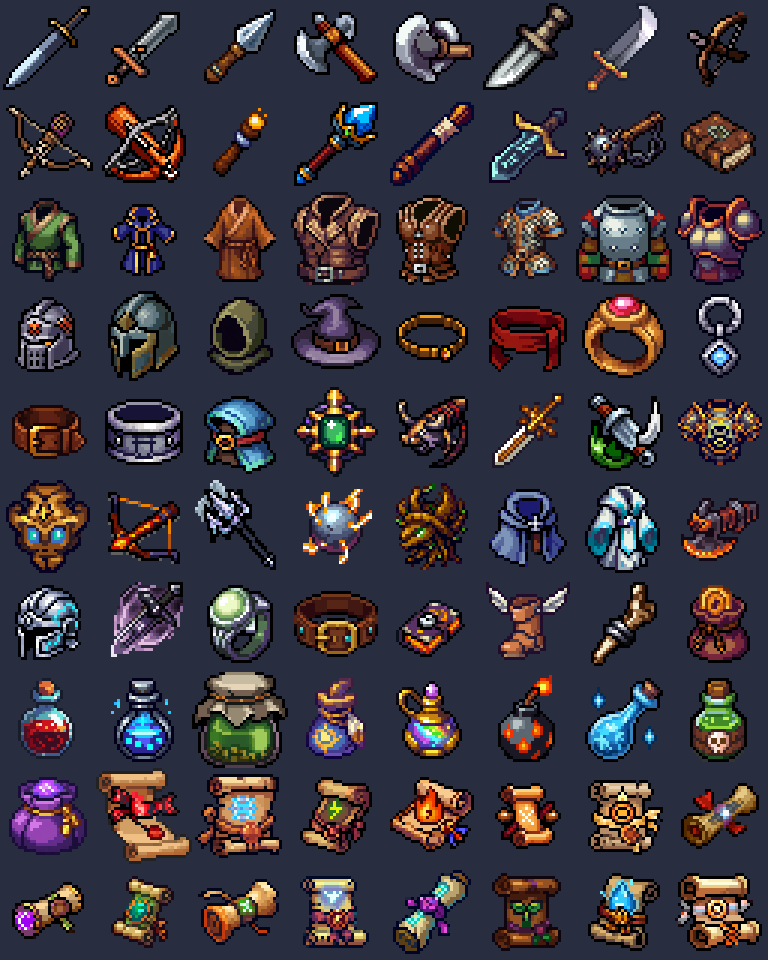
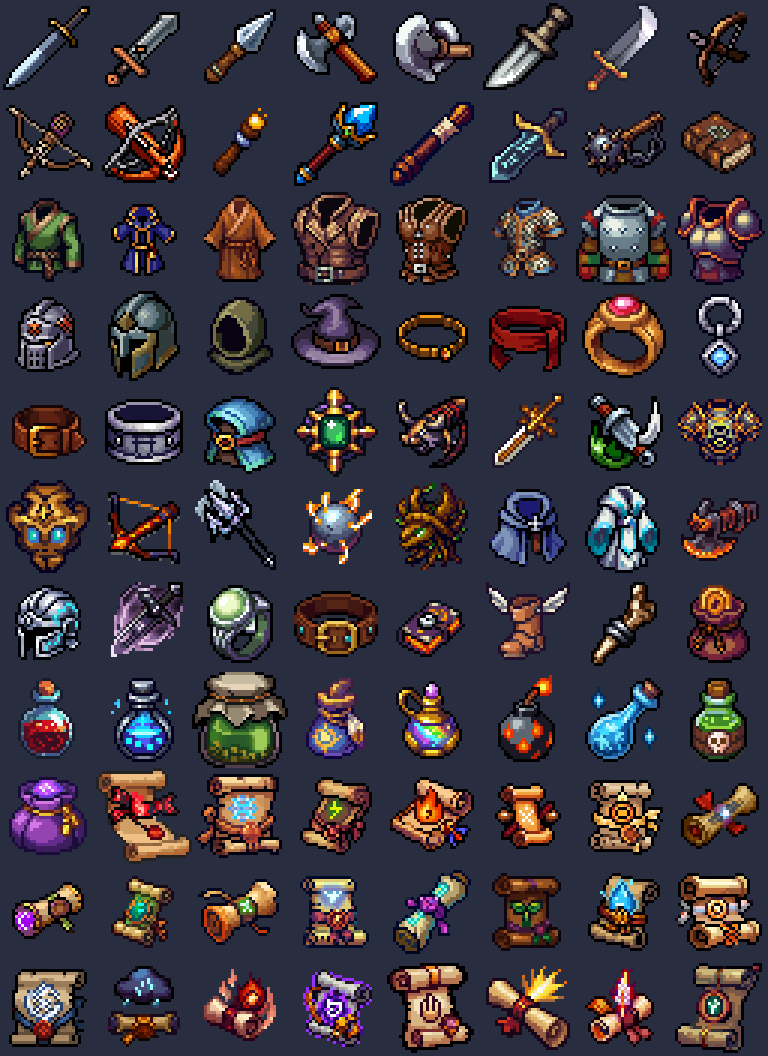
Seconda serie di abilità: 19 nuove abilità di scuola e 8 pergamene
- 46 abilità di classe: Colpo alle gambe, Baluardo, Squarcio, Freccia
  perforante, Freccia del silenzio, Trappola di rovi, Bufera, Temporale,
  Silenzio arcano, Meteora, Preghiera, Raggio sacro, Ritorno (rianima),
  Lama di fiamma, Lama tonante, Sigillo runico, Muro di scudi, Martello
  di luce, Voto; si imparano dagli oggetti generati
- 8 pergamene delle nuove magie con icone PixelLab (32 consumabili)
- esempio balance: TACTICA_MASTER per simulare le scuole padroneggiate
  e conteggio delle abilità usate; documentazione per scuola

diff --git a/core/src/ability.rs b/core/src/ability.rs
@@ -67,6 +67,26 @@ pub enum AbilityId {
     Purify,
     Rally,
     Chains,
+    // Seconda serie di abilità di scuola.
+    LegSweep,
+    Bulwark,
+    Cleave,
+    PiercingArrow,
+    HushArrow,
+    BrambleSnare,
+    Blizzard,
+    Thunderstorm,
+    ArcaneHush,
+    Meteor,
+    Prayer,
+    HolyRay,
+    Return,
+    FlameEdge,
+    StormEdge,
+    RuneSeal,
+    ShieldWall,
+    LightHammer,
+    Vow,
     // Effetti degli oggetti consumabili (non si imparano).
     Potion,
     Ether,
@@ -162,7 +182,7 @@ macro_rules! ab {
 use Element::*;
 
 /// Indicizzata per `AbilityId as usize`: l'ordine deve coincidere con l'enum.
-static TABLE: [Ability; 36] = [
+static TABLE: [Ability; 55] = [
     ab!(Strike, "strike", "Colpo", Physical, 100, 0, (1, 1)),
     ab!(
         HeavyBlow,
@@ -208,6 +228,47 @@ static TABLE: [Ability; 36] = [
         effect: fx(Status::Haste, 100, 3)),
     ab!(Chains, "chains", "Catene", Magic, 50, 8, (1, 3), vertical: 4, master_rp: 100,
         effect: fx(Status::Root, 75, 2)),
+    // Seconda serie: Avanguardia
+    ab!(LegSweep, "leg_sweep", "Colpo alle gambe", Physical, 90, 6, (1, 1), master_rp: 90,
+        effect: fx(Status::Root, 55, 2)),
+    ab!(Bulwark, "bulwark", "Baluardo", Support, 0, 8, (0, 0), aoe: 1, vertical: 4, master_rp: 110,
+        effect: fx(Status::Aegis, 100, 2)),
+    ab!(Cleave, "cleave", "Squarcio", Physical, 170, 9, (1, 1), master_rp: 140),
+    // Esploratore
+    ab!(PiercingArrow, "piercing_arrow", "Freccia perforante", Physical, 120, 5, (2, 7), vertical: 7,
+        ranged: true, master_rp: 100),
+    ab!(HushArrow, "hush_arrow", "Freccia del silenzio", Physical, 80, 8, (2, 5), vertical: 5,
+        ranged: true, master_rp: 100, effect: fx(Status::Silence, 55, 2)),
+    ab!(BrambleSnare, "bramble_snare", "Trappola di rovi", Support, 0, 8, (1, 4), aoe: 1, vertical: 4,
+        ranged: true, master_rp: 110, effect: fx(Status::Root, 70, 2)),
+    // Arcanista
+    ab!(Blizzard, "blizzard", "Bufera", Magic, 115, 20, (2, 5), aoe: 2, vertical: 5, element: Some(Ice),
+        master_rp: 150, effect: fx(Status::Slow, 35, 2)),
+    ab!(Thunderstorm, "thunderstorm", "Temporale", Magic, 120, 16, (1, 4), aoe: 1, vertical: 6,
+        element: Some(Thunder), master_rp: 130),
+    ab!(ArcaneHush, "arcane_hush", "Silenzio arcano", Support, 0, 10, (1, 4), aoe: 1, vertical: 4,
+        master_rp: 110, effect: fx(Status::Silence, 65, 2)),
+    ab!(Meteor, "meteor", "Meteora", Magic, 200, 28, (3, 5), aoe: 1, vertical: 6, element: Some(Fire),
+        master_rp: 180),
+    // Guaritore
+    ab!(Prayer, "prayer", "Preghiera", Heal, 75, 18, (0, 2), aoe: 2, vertical: 4, master_rp: 130),
+    ab!(HolyRay, "holy_ray", "Raggio sacro", Magic, 130, 12, (1, 4), vertical: 5, element: Some(Holy),
+        master_rp: 110),
+    ab!(Return, "return", "Ritorno", Heal, 25, 20, (1, 2), vertical: 4, revive: true, master_rp: 160),
+    // Spadaruna
+    ab!(FlameEdge, "flame_edge", "Lama di fiamma", Physical, 120, 6, (1, 1), element: Some(Fire),
+        master_rp: 90),
+    ab!(StormEdge, "storm_edge", "Lama tonante", Physical, 115, 8, (1, 1), element: Some(Thunder),
+        master_rp: 110, effect: fx(Status::Root, 30, 2)),
+    ab!(RuneSeal, "rune_seal", "Sigillo runico", Magic, 70, 10, (1, 3), vertical: 4, master_rp: 110,
+        effect: fx(Status::Silence, 60, 2)),
+    // Custode
+    ab!(ShieldWall, "shield_wall", "Muro di scudi", Support, 0, 14, (0, 0), aoe: 2, vertical: 4,
+        master_rp: 140, effect: fx(Status::Aegis, 100, 2)),
+    ab!(LightHammer, "light_hammer", "Martello di luce", Physical, 140, 10, (1, 1), element: Some(Holy),
+        master_rp: 110),
+    ab!(Vow, "vow", "Voto", Support, 0, 10, (0, 3), aoe: 1, vertical: 4, master_rp: 110,
+        effect: fx(Status::Regen, 100, 4)),
     // Consumabili: valori fissi, portata corta (le bombe si lanciano).
     ab!(Potion, "potion", "Pozione", Heal, 50, 0, (0, 1), vertical: 3, fixed: true),
     ab!(Ether, "ether", "Etere", Heal, 25, 0, (0, 1), vertical: 3, fixed: true, restore_mp: true),
@@ -225,10 +286,10 @@ static TABLE: [Ability; 36] = [
 ];
 
 impl AbilityId {
-    pub const ALL: [AbilityId; 36] = {
-        let mut out = [AbilityId::Strike; 36];
+    pub const ALL: [AbilityId; 55] = {
+        let mut out = [AbilityId::Strike; 55];
         let mut i = 0;
-        while i < 36 {
+        while i < 55 {
             out[i] = TABLE[i].id;
             i += 1;
         }

diff --git a/core/examples/balance.rs b/core/examples/balance.rs
@@ -16,6 +16,7 @@ fn main() {
     let mut turns = 0u64;
     let mut by_class: BTreeMap<&str, [i64; 4]> = BTreeMap::new(); // danni, cure, ko, sopravvissuti
     let mut by_biome: BTreeMap<&str, [u32; 3]> = BTreeMap::new();
+    let mut used: BTreeMap<&str, u64> = BTreeMap::new();
 
     for seed in 0..n {
         // Con TACTICA_STATUS=1 la squadra 0 usa l'equipaggiamento con gli status.
@@ -26,6 +27,14 @@ fn main() {
             presets::demo_party(0, 3, ["", "", "", ""])
         };
         units.extend(presets::demo_party(1, 3, ["", "", "", ""]));
+        // TACTICA_MASTER=1: la squadra 0 padroneggia tutte le abilità della
+        // propria scuola; =2: entrambe le squadre.
+        let master = std::env::var("TACTICA_MASTER").ok();
+        for u in &mut units {
+            if master.as_deref() == Some("2") || (master.as_deref() == Some("1") && u.team == 0) {
+                u.mastered = u.class.learnable().to_vec();
+            }
+        }
         let (mut b, _) = Battle::new(&BattleSetup {
             seed,
             map: None,
@@ -34,7 +43,12 @@ fn main() {
             objective: Default::default(),
             loot: Default::default(),
         });
-        ai::autoplay(&mut b, 20_000);
+        let (_, events) = ai::autoplay(&mut b, 20_000);
+        for e in &events {
+            if let tactica_core::Event::AbilityUsed { ability, .. } = e {
+                *used.entry(ability.def().name).or_default() += 1;
+            }
+        }
         let w = match b.winner() {
             Some(Some(t)) => t as usize,
             _ => 2,
@@ -74,4 +88,21 @@ fn main() {
     for (b, v) in &by_biome {
         println!("{b:<10} {:>6} {:>6} {:>6}", v[0], v[1], v[2]);
     }
+
+    if std::env::var("TACTICA_MASTER").is_ok() {
+        let mut v: Vec<_> = used.into_iter().collect();
+        v.sort_by_key(|(_, n)| std::cmp::Reverse(*n));
+        println!("\nAbilità usate (per battaglia):");
+        for (name, n) in v {
+            println!("  {name:<24} {:.2}", n as f64 / n_f(n_battles(&wins)));
+        }
+    }
+}
+
+fn n_battles(w: &[u32; 3]) -> u32 {
+    w.iter().sum()
+}
+
+fn n_f(n: u32) -> f64 {
+    n.max(1) as f64
 }

diff --git a/core/src/consumable.rs b/core/src/consumable.rs
@@ -36,7 +36,7 @@ macro_rules! cons {
     };
 }
 
-pub static CONSUMABLES: [ConsumableDef; 24] = [
+pub static CONSUMABLES: [ConsumableDef; 32] = [
     // Pozioni e preparati
     cons!(
         "pozione",
@@ -247,6 +247,70 @@ pub static CONSUMABLES: [ConsumableDef; 24] = [
         140,
         ""
     ),
+    cons!(
+        "p_bufera",
+        "Pergamena della Bufera",
+        Blizzard,
+        true,
+        Epic,
+        280,
+        ""
+    ),
+    cons!(
+        "p_temporale",
+        "Pergamena del Temporale",
+        Thunderstorm,
+        true,
+        Rare,
+        200,
+        ""
+    ),
+    cons!(
+        "p_meteora",
+        "Pergamena della Meteora",
+        Meteor,
+        true,
+        Epic,
+        320,
+        ""
+    ),
+    cons!(
+        "p_silenzio",
+        "Pergamena del Silenzio arcano",
+        ArcaneHush,
+        true,
+        Rare,
+        150,
+        ""
+    ),
+    cons!(
+        "p_preghiera",
+        "Pergamena della Preghiera",
+        Prayer,
+        true,
+        Rare,
+        190,
+        ""
+    ),
+    cons!(
+        "p_raggio",
+        "Pergamena del Raggio sacro",
+        HolyRay,
+        true,
+        Uncommon,
+        110,
+        ""
+    ),
+    cons!(
+        "p_ritorno",
+        "Pergamena del Ritorno",
+        Return,
+        true,
+        Epic,
+        300,
+        ""
+    ),
+    cons!("p_voto", "Pergamena del Voto", Vow, true, Uncommon, 100, ""),
 ];
 
 const ROMAN: [&str; TIERS] = ["I", "II", "III", "IV", "V", "VI"];

diff --git a/tools/pixelart/pixellab_icons.py b/tools/pixelart/pixellab_icons.py
@@ -116,6 +116,14 @@ ICONS: dict[str, str] = {
     "use_p_germoglio": "a rolled parchment scroll tied with a ribbon and wax seal, with a glowing green sprout leaf rune symbol",
     "use_p_purif": "a rolled parchment scroll tied with a ribbon and wax seal, with a glowing clear water drop rune symbol",
     "use_p_slancio": "a rolled parchment scroll tied with a ribbon and wax seal, with a glowing orange wind swirl rune symbol",
+    "use_p_bufera": "a rolled parchment scroll tied with a ribbon and wax seal, with a glowing white snowstorm swirl rune symbol",
+    "use_p_temporale": "a rolled parchment scroll tied with a ribbon and wax seal, with a glowing dark storm cloud with lightning rune symbol",
+    "use_p_meteora": "a rolled parchment scroll tied with a ribbon and wax seal, with a glowing falling flaming meteor rune symbol",
+    "use_p_silenzio": "a rolled parchment scroll tied with a ribbon and wax seal, with a glowing purple closed mouth rune symbol",
+    "use_p_preghiera": "a rolled parchment scroll tied with a ribbon and wax seal, with a glowing golden praying hands rune symbol",
+    "use_p_raggio": "a rolled parchment scroll tied with a ribbon and wax seal, with a glowing bright golden ray beam rune symbol",
+    "use_p_ritorno": "a rolled parchment scroll tied with a ribbon and wax seal, with a glowing glowing phoenix feather rune symbol",
+    "use_p_voto": "a rolled parchment scroll tied with a ribbon and wax seal, with a glowing green heart leaf rune symbol",
 }
 
 

diff --git a/core/src/class.rs b/core/src/class.rs
@@ -122,12 +122,30 @@ impl Class {
     pub fn learnable(self) -> &'static [AbilityId] {
         use AbilityId::*;
         match self {
-            Class::Vanguard => &[Sweep, Charge, Rally],
-            Class::Scout => &[AimedShot, Volley, VenomDart],
-            Class::Arcanist => &[Frost, Bolt, Inferno, Torpor],
-            Class::Mender => &[Radiance, GreatMend, Aegis, Sprout, Purify],
-            Class::Runeblade => &[DrainBlade, FrostEdge],
-            Class::Warden => &[Sanctuary, Judgment, Chains],
+            Class::Vanguard => &[Sweep, Charge, Rally, LegSweep, Bulwark, Cleave],
+            Class::Scout => &[
+                AimedShot,
+                Volley,
+                VenomDart,
+                PiercingArrow,
+                HushArrow,
+                BrambleSnare,
+            ],
+            Class::Arcanist => &[
+                Frost,
+                Bolt,
+                Inferno,
+                Torpor,
+                Blizzard,
+                Thunderstorm,
+                ArcaneHush,
+                Meteor,
+            ],
+            Class::Mender => &[
+                Radiance, GreatMend, Aegis, Sprout, Purify, Prayer, HolyRay, Return,
+            ],
+            Class::Runeblade => &[DrainBlade, FrostEdge, FlameEdge, StormEdge, RuneSeal],
+            Class::Warden => &[Sanctuary, Judgment, Chains, ShieldWall, LightHammer, Vow],
         }
     }
 

diff --git a/core/src/item.rs b/core/src/item.rs
@@ -569,9 +569,12 @@ mod tests {
         }
         for c in Class::ALL {
             assert!(validate_loadout(c, &starter_kit(c).map(ItemRef::from)).is_ok());
-            // Ogni abilità imparabile ha almeno un oggetto che la insegna.
+            // Ogni abilità imparabile si può trovare su un oggetto: o del
+            // catalogo classico, o generato con una base adatta alla classe.
             for a in c.learnable() {
-                assert!(TABLE.iter().any(|i| i.teaches == Some(*a)), "{a:?}");
+                let fixed = TABLE.iter().any(|i| i.teaches == Some(*a));
+                let generated = crate::gear::BASES.iter().any(|b| b.usable_by(c));
+                assert!(fixed || generated, "{a:?}");
             }
         }
     }

diff --git a/README.md b/README.md
@@ -47,8 +47,8 @@ Tutto è originale: regole, storia, nomi, grafica, musica ed effetti sonori. Ter
 ### Progressione
 
 - **6 classi:** Avanguardia, Esploratore, Arcanista e Guaritore di base; Spadaruna e Custode da sbloccare.
-- **27 abilità.** Un oggetto insegna un'abilità finché è equipaggiato; con i **punti risonanza** guadagnati in battaglia l'abilità diventa permanente.
-- **Consumabili in battaglia:** ogni unità porta una borsa con 2 consumabili scelti fra 24 tipi in sei qualità: pozioni, eteri, rimedi, essenze vitali che rianimano, elisir, bombe e fiale da lancio. In più 15 pergamene che permettono a qualsiasi classe di lanciare un incantesimo una volta.
+- **46 abilità di classe** (attacchi, magie elementali ad area, cure, rianimazione, status, protezioni). Un oggetto insegna un'abilità finché è equipaggiato; con i **punti risonanza** guadagnati in battaglia l'abilità diventa permanente.
+- **Consumabili in battaglia:** ogni unità porta una borsa con 2 consumabili scelti fra 24 tipi in sei qualità: pozioni, eteri, rimedi, essenze vitali che rianimano, elisir, bombe e fiale da lancio. In più 23 pergamene che permettono a qualsiasi classe di lanciare un incantesimo una volta.
 - **Bottino da conquistare sul campo:** le unità sconfitte possono lasciare un oggetto, e per prenderlo bisogna raggiungere la loro casella.
 - **Oggetti generati:** più di 200.000 combinazioni con 5 rarità, 37 basi, 6 materiali e 39 affissi (veleno o gelo al colpo, armi elementali, vampirismo, resistenze, immunità, rigenerazione, +1 movimento...). In più 16 leggendari unici con nome e storia. Quattro slot di equipaggiamento: arma, armatura, copricapo, accessorio.
 - **Esperienza e livelli,** roster fino a 8 unità, negozio, bottino ed economia.
@@ -104,7 +104,7 @@ I personaggi delle sei classi, fatti con PixelLab, con i colori delle due squadr
 
 ![Personaggi](docs/img/sprite_sheet.png)
 
-Le icone degli oggetti: 37 basi, 16 leggendari, 24 consumabili (pozioni, bombe, pergamene), gli oggetti classici e il sacchetto del bottino:
+Le icone degli oggetti: 37 basi, 16 leggendari, 32 consumabili (pozioni, bombe, pergamene), gli oggetti classici e il sacchetto del bottino:
 
 ![Icone degli oggetti](docs/img/icone.png)
 
@@ -243,7 +243,7 @@ I pacchetti per i giocatori includono il motore [Godot Engine](https://godotengi
 
 - **Isometric battles** on seeded procedural maps with height, fully rotatable in 3D. Rendering is styled after the VGA and SVGA era (with Bayer dithering).
 - **Statutes:** random battle rules; breaking one gets a unit suspended, then expelled.
-- **Progression:** 6 classes, 27 abilities and 29 items. Abilities are learned from equipment and mastered with resonance points.
+- **Progression:** 6 classes, 46 class abilities, 32 consumables (potions, bombs, spell scrolls) and procedurally generated gear. Abilities are learned from equipment and mastered with resonance points.
 - **Modes:** single-player campaign with tutorial, PvE, offline skirmish, ELO-matched PvP, 2-6 player co-op clan missions, clan wars (up to 6v6), clan tournaments, ranked seasons.
 - **Tech:**
   - deterministic rules engine in Rust (`core/`), shared by the authoritative server (axum, WebSocket, SQLite) and the Godot 4.7 client (GDExtension);

diff --git a/docs/SERVER.md b/docs/SERVER.md
@@ -166,13 +166,28 @@ Ogni unità porta in battaglia una **borsa** con al massimo 2 consumabili, prepa
 |---|---|---|
 | Pozioni e preparati | Pozione, Etere, Rimedio, Essenza vitale, Elisir | HP, MP, rimozione degli status negativi, rianimazione di un alleato sconfitto accanto (se la sua casella è libera), HP al massimo |
 | Da lancio | Bomba di brace, Fiala di gelo, Fiala tossica, Polvere del sonno | danni di fuoco ad area, ghiaccio e Lentezza, Veleno ad area, Sonno ad area (portata fino a 4) |
-| Pergamene (15) | Fiamma, Gelo, Folgore, Vampa, Luce, Giudizio, Catene, Torpore, Cura, Cura maggiore, Santuario, Egida, Germoglio, Purificazione, Slancio | lanciano l'incantesimo una volta, da qualsiasi classe, senza MP, con una MAG minima garantita dalla qualità |
+| Pergamene (23) | Fiamma, Gelo, Folgore, Vampa, Luce, Giudizio, Catene, Torpore, Cura, Cura maggiore, Santuario, Egida, Germoglio, Purificazione, Slancio, Bufera, Temporale, Meteora, Silenzio arcano, Preghiera, Raggio sacro, Ritorno, Voto | lanciano l'incantesimo una volta, da qualsiasi classe, senza MP, con una MAG minima garantita dalla qualità |
 
 - **Qualità:** I-VI, secondo il livello di chi lascia il consumabile. Aumenta i valori fissi (da ×1 a ×4,5) e la MAG minima delle pergamene (18 + 7 per livello di qualità).
 - **Regole:** valgono gli statuti (una pozione viola «Niente cure», una pergamena di Fiamma «Niente fuoco»). Il Silenzio blocca le pergamene ma non pozioni e bombe.
 - **Bottino:** circa un oggetto su tre è un consumabile, della rarità estratta.
 - **Negozio:** Pozione I, Etere I, Rimedio I, Bomba di brace I e Pergamena di Cura I.
 - **IA:** usa i consumabili quando rendono più del loro costo stimato; rianima appena può.
+
+## Abilità per scuola
+
+Ogni classe ha Colpo, un'abilità innata e una scuola di abilità da imparare con l'equipaggiamento (punti risonanza fino alla padronanza). Quelle in corsivo sono la seconda serie, aggiunta con il bottino generato.
+
+| Classe | Innata | Scuola |
+|---|---|---|
+| Avanguardia | Fendente | Ampio fendente, Carica, Slancio, *Colpo alle gambe* (Radici), *Baluardo* (Egida attorno a sé), *Squarcio* |
+| Esploratore | Tiro | Tiro mirato, Raffica, Dardo velenoso, *Freccia perforante* (portata 7), *Freccia del silenzio*, *Trappola di rovi* (Radici ad area) |
+| Arcanista | Fiamma | Gelo, Folgore, Vampa, Torpore, *Bufera* (ghiaccio, area 2), *Temporale*, *Silenzio arcano*, *Meteora* |
+| Guaritore | Cura | Luce, Cura maggiore, Egida, Germoglio, Purificazione, *Preghiera* (cura ad area 2), *Raggio sacro*, *Ritorno* (rianima un alleato con il 25% degli HP) |
+| Spadaruna | Lama runica | Lama vorace, Taglio gelido, *Lama di fiamma*, *Lama tonante* (Radici), *Sigillo runico* (Silenzio) |
+| Custode | Ammonimento | Santuario, Giudizio, Catene, *Muro di scudi* (Egida, area 2), *Martello di luce*, *Voto* (Rigenerazione) |
+
+Gli oggetti rari ed epici possono insegnare qualsiasi abilità della scuola di una classe che li può usare. Con l'esempio `balance` e `TACTICA_MASTER=2` (tutte le abilità padroneggiate) le squadre speculari restano in equilibrio, 284 vittorie a 276; con `TACTICA_MASTER=1` la squadra che padroneggia la scuola vince circa il 63% delle volte.
 
 ## Status alterati
 

diff --git a/docs/ARTE.md b/docs/ARTE.md
@@ -21,7 +21,7 @@ Secondo i termini di servizio di PixelLab (sezione 3.3), le immagini generate ap
 | azione, KO e camminata | da fotogrammi scelti delle animazioni |
 | colore della squadra | il blu saturo dei vestiti va nei colori chiave della squadra; l'acciaio, bluastro ma poco saturo, resta com'è |
 
-**Icone degli oggetti** (`tools/pixelart/pixellab/icons/`): una icona 32×32 per ognuna delle 37 basi, dei 16 leggendari e dei 24 consumabili (`use_<codice>`), per stivali e corno (oggetti del catalogo classico) e per il sacchetto del bottino a terra: 80 in tutto.
+**Icone degli oggetti** (`tools/pixelart/pixellab/icons/`): una icona 32×32 per ognuna delle 37 basi, dei 16 leggendari e dei 32 consumabili (`use_<codice>`), per stivali e corno (oggetti del catalogo classico) e per il sacchetto del bottino a terra: 88 in tutto.
 
 ```bash
 PIXELLAB_TOKEN=... python3 tools/pixelart/pixellab_icons.py generate
